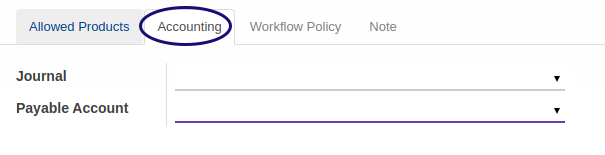
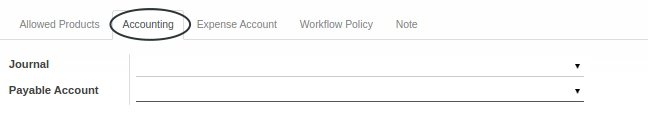
Konfigurasi Reimbursement Type Task Revisi Penjelasan Reimbursement Type

diff --git a/src/konfigurasi/reimbursement-type/penjelasan.md b/src/konfigurasi/reimbursement-type/penjelasan.md
@@ -1,13 +1,14 @@
 # Penjelasan Reimbursement Type
 
 
-Informasi pada Job Family Grade dibagi menjadi 3 (tiga) area, diantaranya:
+Informasi pada *Reimbursement Type* dibagi menjadi beberapa bagian, yaitu:
 
 * [Header](#bagian-header)
 * [Tab Allowed Products](#tab-allowed-product)
     * [Allowed Product Category](#tab-tab-allowed-product-category)
     * [Allowed Product](#tab-tab-allowed-product)
 * [Tab Accounting](#tab-accounting)
+* [Tab Expense Account](#tab-expense-account)
 * [Tab Workflow Policy](#tab-workflow-policy)
 * [Tab Note](#tab-note)
 
@@ -41,11 +42,43 @@ Sequence yang digunakan untuk mengenerate dokumen reimbursement. Pilihan diambil
 
 Kategori produk yang produk-produknya diperbolehkan dipilih ketika membuat reimbursement.
 
+#### <a name="field-product-category-name">Name</a>
+
+Nama kategori produk.
+
 ### <a name="tab-tab-allowed-product">Allowed Product</a>
 
 ![](../../img/reimbursement-type/tab-tab-allowed-product.png)
 
 Produk-produk yang diperbolehkan dipilih ketika membuat reimbursement
+
+#### <a name="field-product-internal-reference">Internal Reference</a>
+
+Referensi internal.
+
+#### <a name="field-product-name">Name</a>
+
+Nama produk.
+
+#### <a name="field-product-brand">Brand</a>
+
+Nama merk.
+
+#### <a name="field-product-attributes">Attributes</a>
+
+Atribut produk.
+
+#### <a name="field-product-public-price">Public Price</a>
+
+Harga publik.
+
+#### <a name="field-product-uom">Unit of Measure</a>
+
+Satuan ukuran.
+
+#### <a name="field-product-ean13-barcode">EAN13 Barcode</a>
+
+Kode batang EAN13.
 
 ### <a name="tab-accounting">TAB ACCOUNTING</a>
 
@@ -58,6 +91,42 @@ Buku jurnal yang akan digunakan pada pembuatan penjurnalan otomatis. Pilihan dia
 #### <a name="field-payable-account">Payable Account</a>
 
 Akun utang yang akan digunakan pada pembuatan penjurnalan otomatis. Pilihan diambil dari master data Account.
+
+### <a name="tab-expense-account">TAB EXPENSE ACCOUNT</a>
+
+![](../../img/reimbursement-type/tab-expense-account.png)
+
+#### <a name="field-expense-account-code">Code</a>
+
+Kode akun pengeluaran.
+
+#### <a name="field-expense-account-name">Name</a>
+
+Nama akun pengeluaran.
+
+#### <a name="field-expense-account-secondary-currency">Secondary Currency</a>
+
+Mata uang sekunder.
+
+#### <a name="field-expense-account-exchange-rate">Exchange Rate</a>
+
+Kurs.
+
+#### <a name="field-expense-account-foreign-balance">Foreign Balance</a>
+
+Saldo mata uang asing.
+
+#### <a name="field-expense-account-adjusted-balance">Adjusted Balance</a>
+
+Saldo yang disesuaikan.
+
+#### <a name="field-expense-account-balance">Balance</a>
+
+Saldo.
+
+#### <a name="field-expense-account-gain-loss">Unrealized Gain or Loss</a>
+
+Keuntungan atau kerugian yang belum direalisasi.
 
 ### <a name="tab-workflow-policy">TAB WORKFLOW POLICY</a>
 
